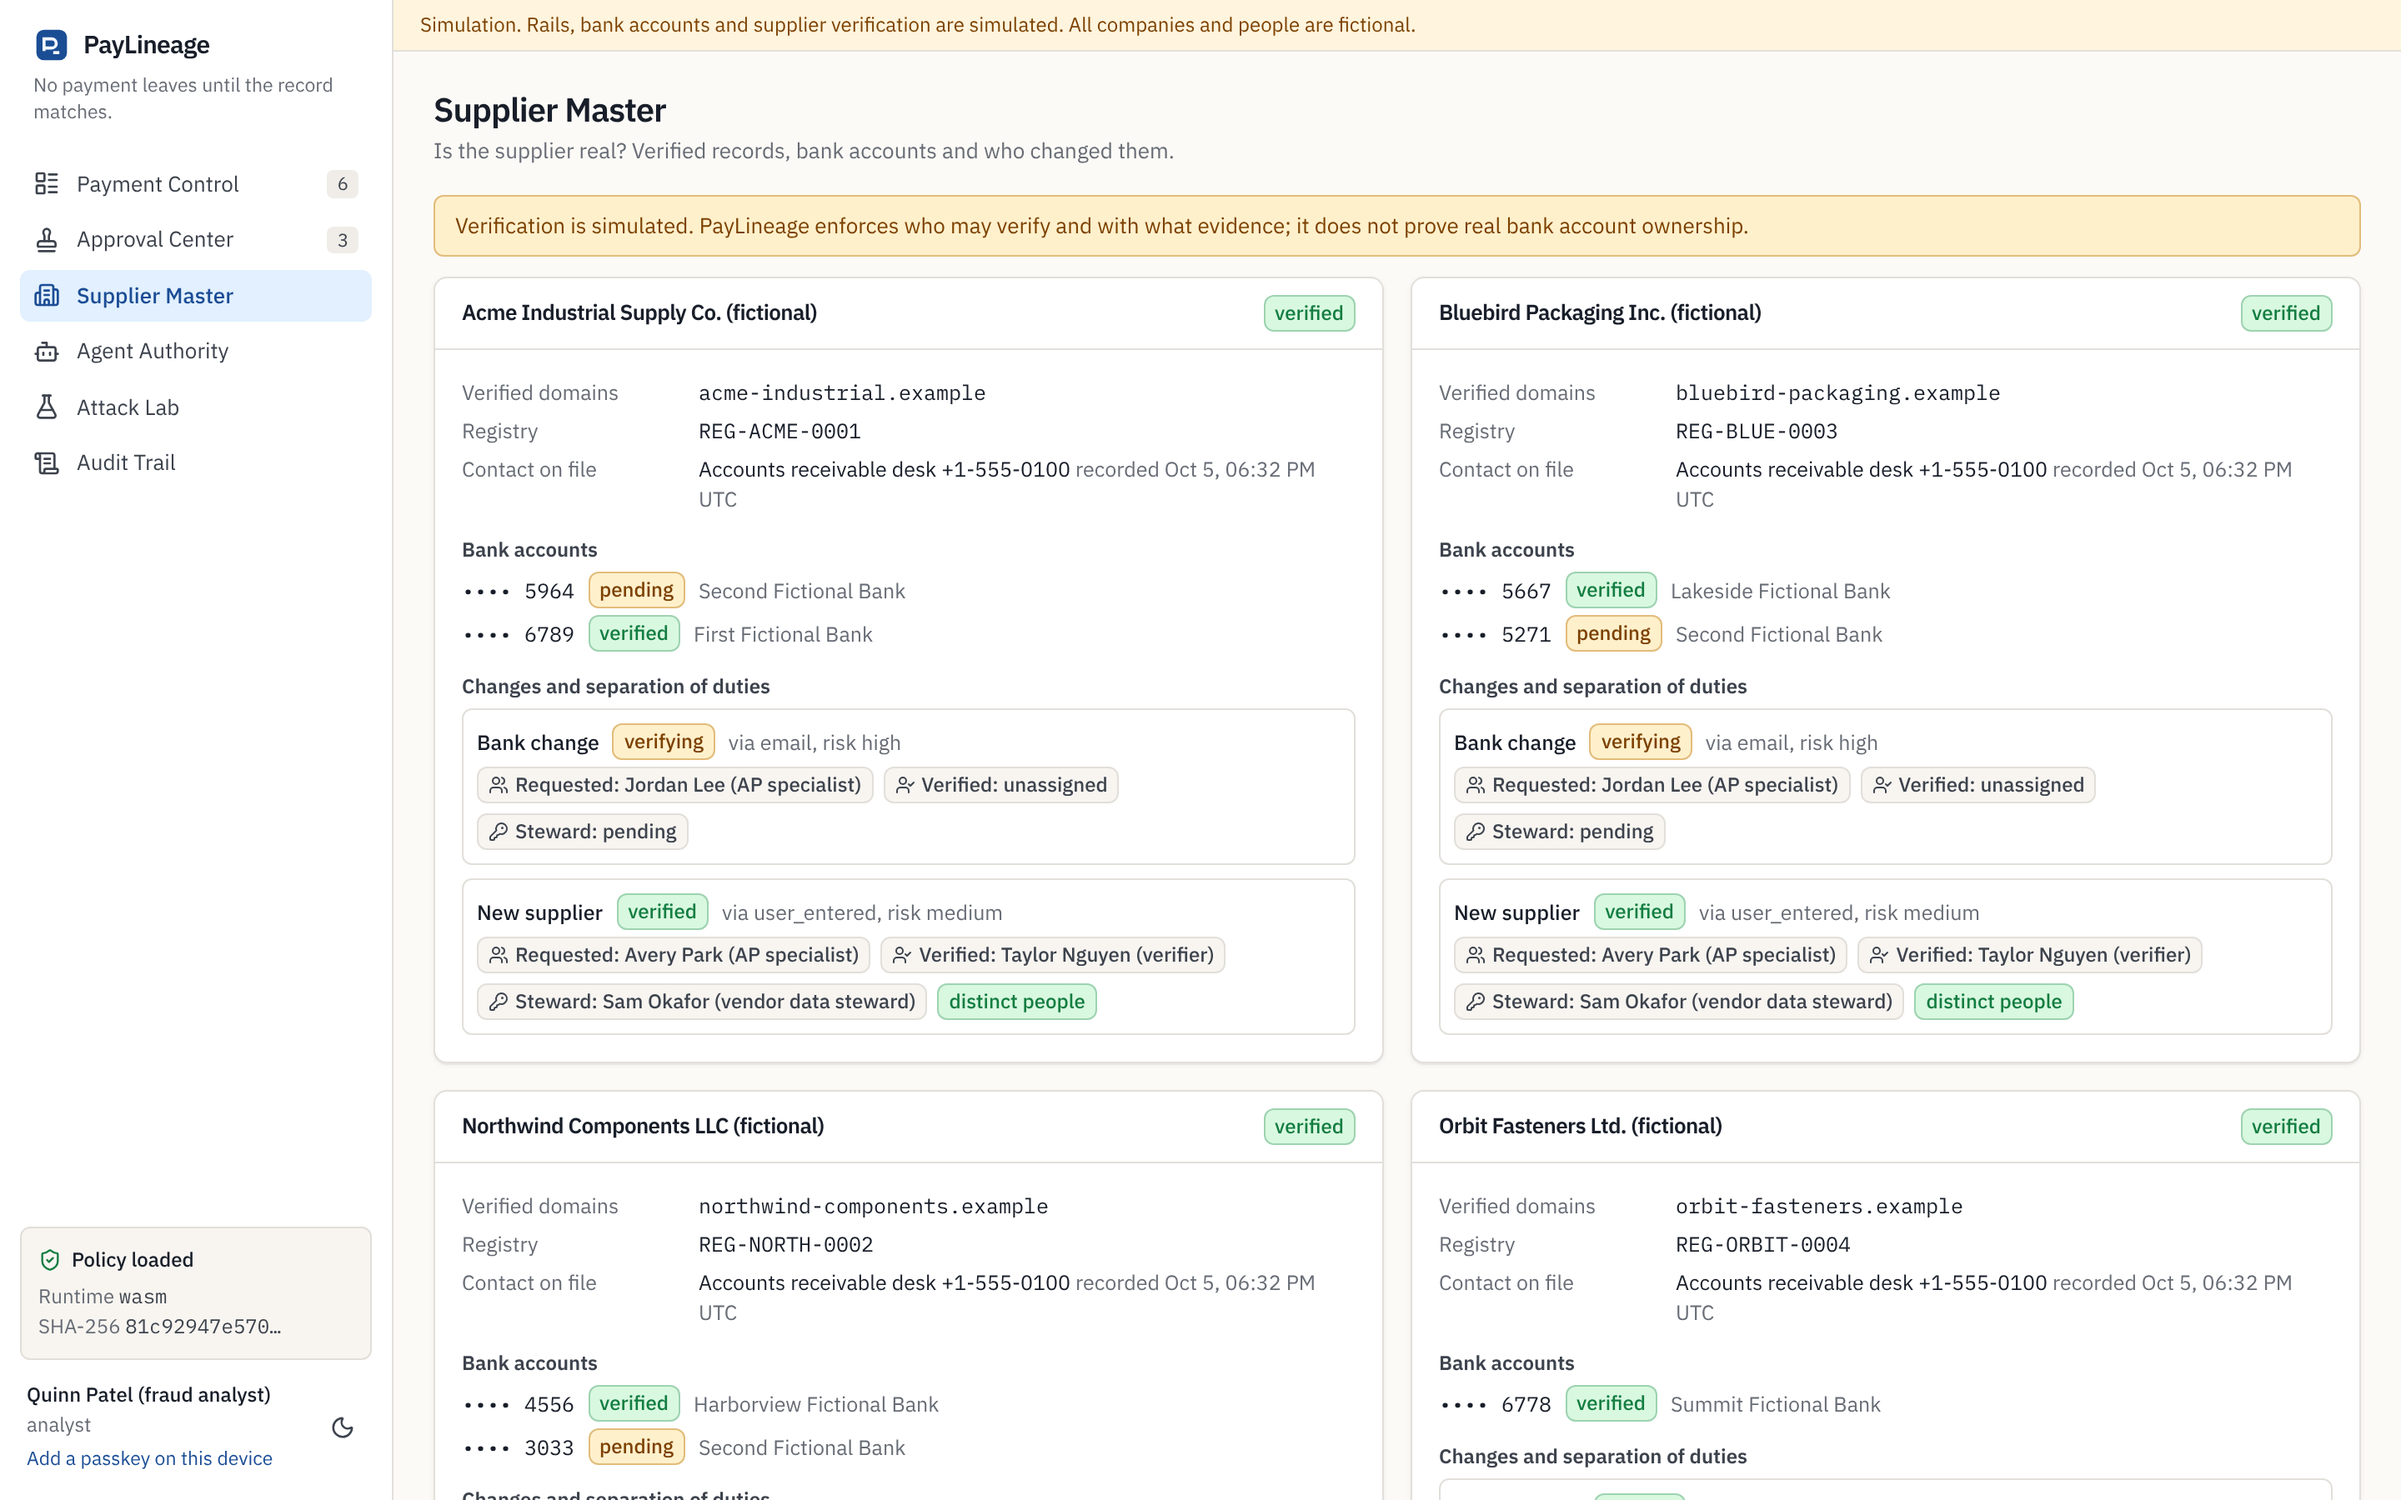
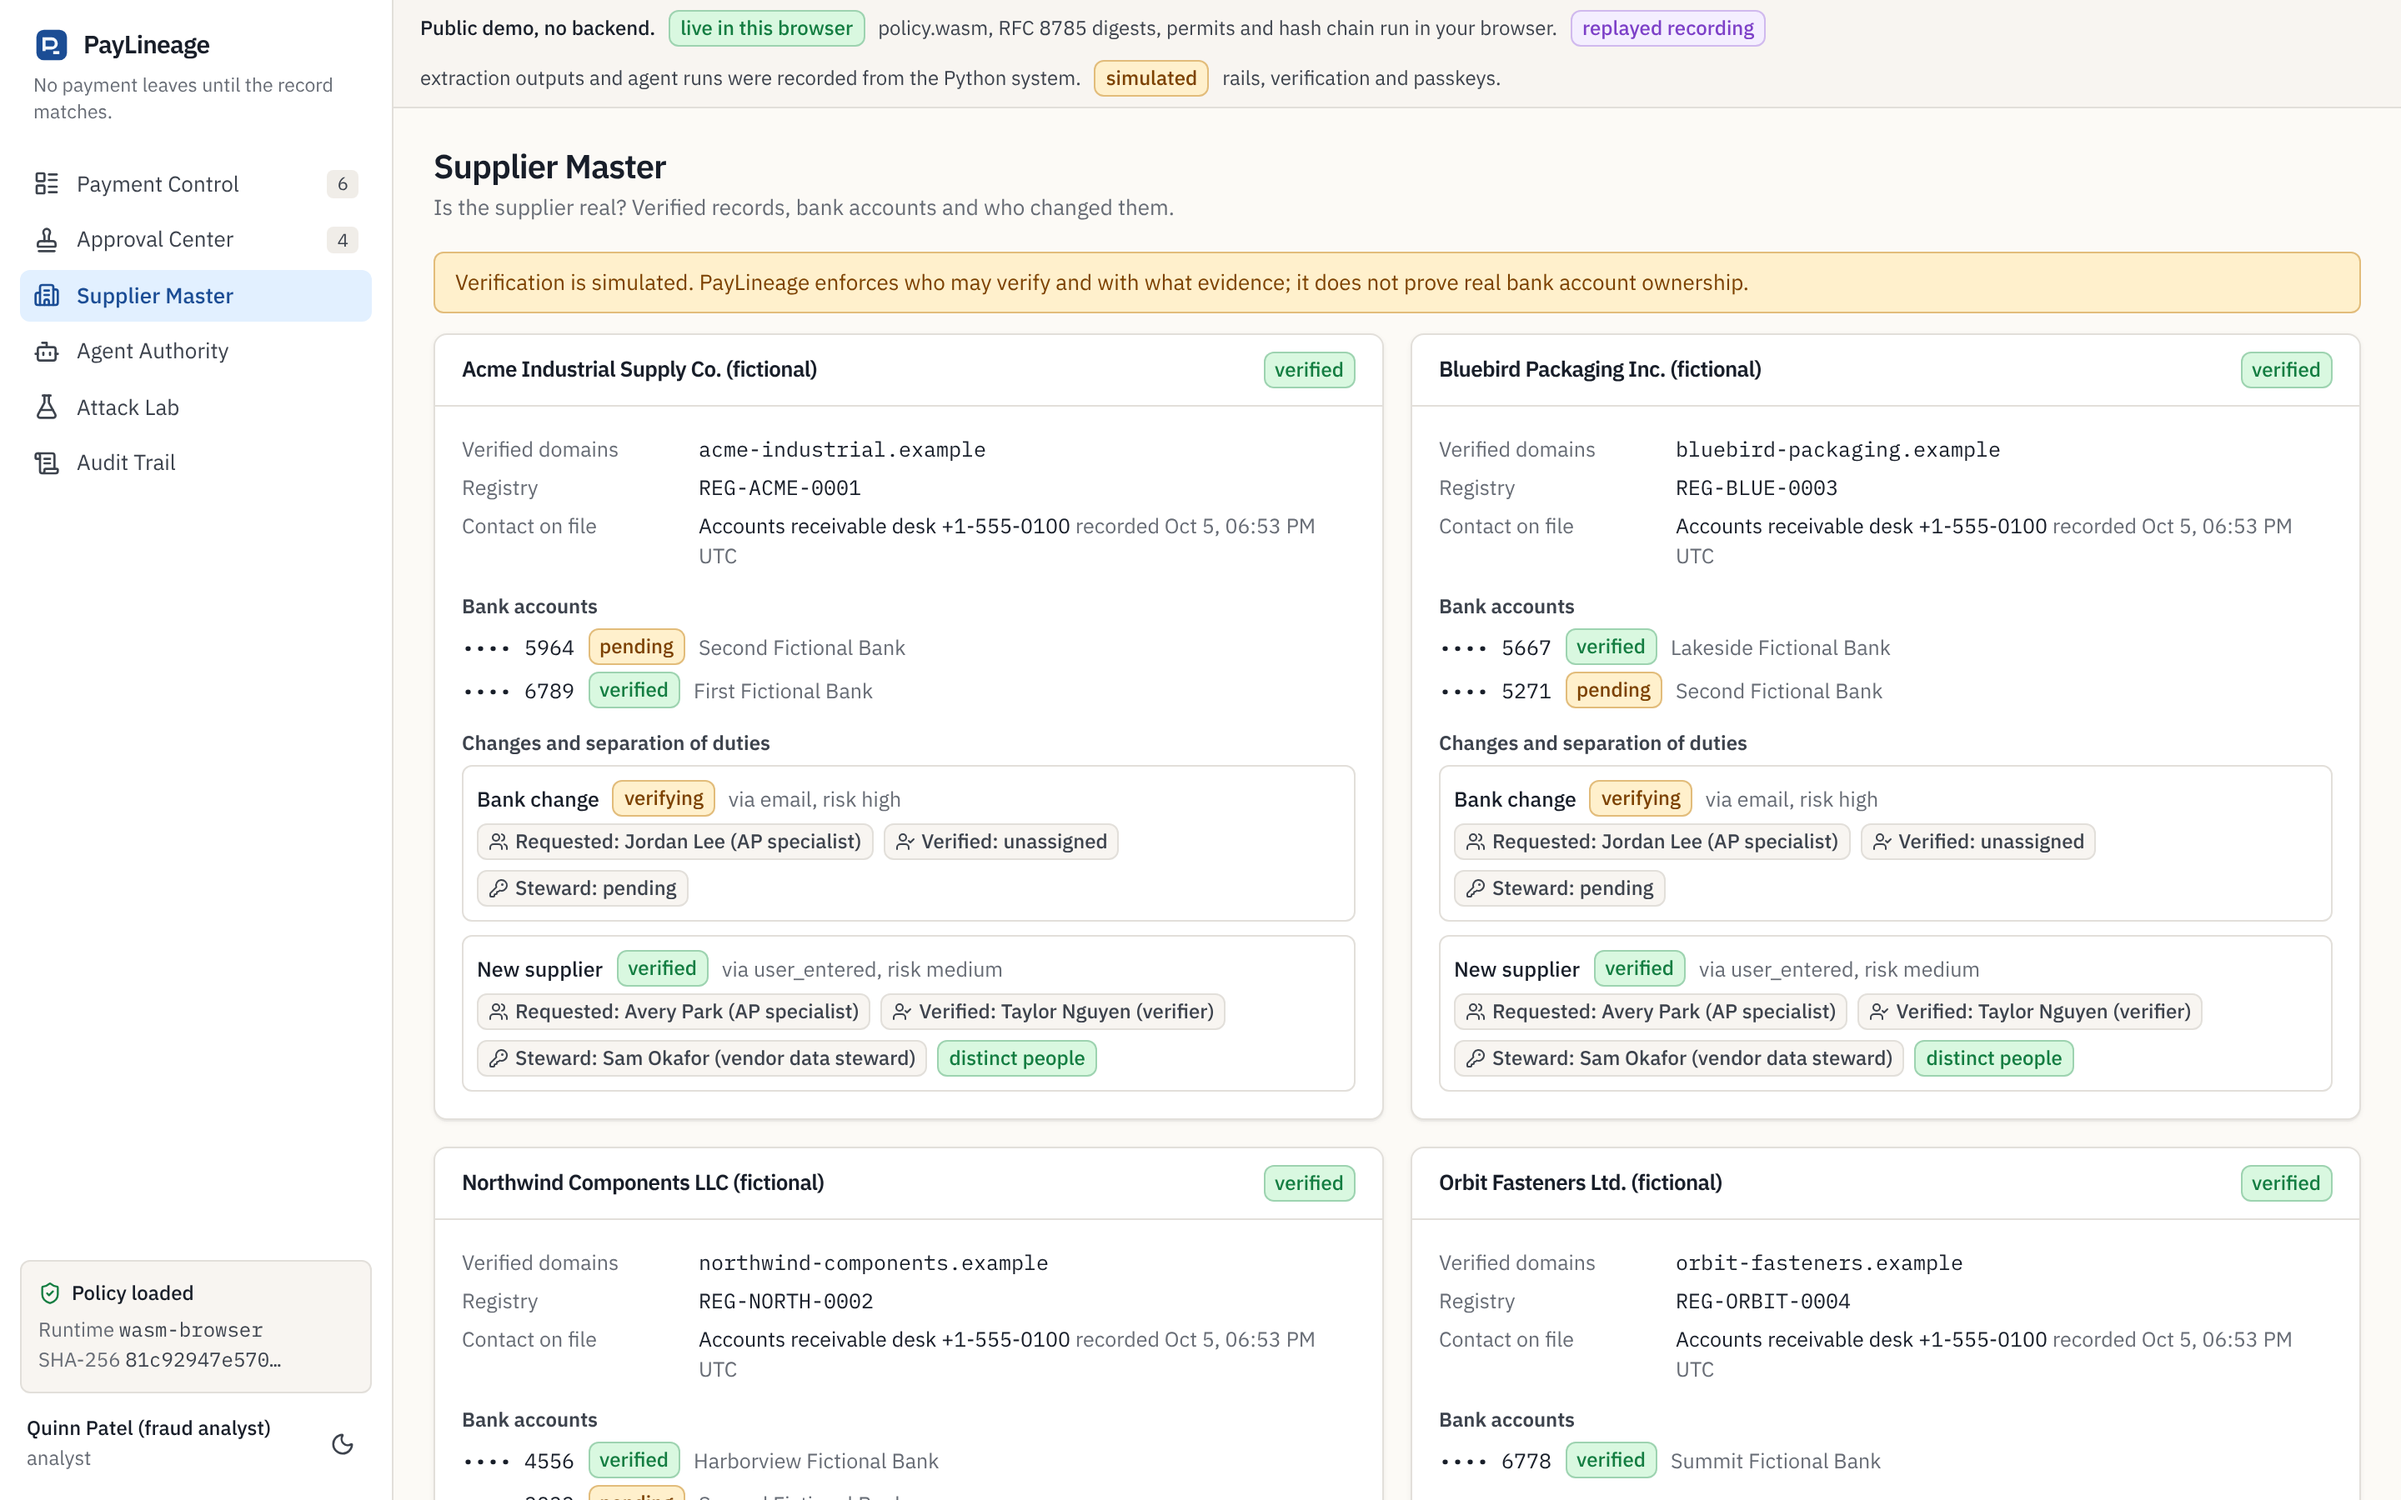
docs: README presentation with live demo, full screens gallery, deployment
- Live demo link, screens for every workspace plus dark mode
- Deployment and disclaimer sections
- make screenshots regenerates docs/images from the static demo

diff --git a/README.md b/README.md
@@ -4,6 +4,8 @@
 
 PayLineage stops AI accounts payable agents from paying unverified or unauthorized beneficiaries. It sits between an agent that reads invoices and the money. Invoice and email content can never become payment authority, even when the model is fully manipulated and a person clicks approve.
 
+**Live demo:** https://sheikhrobinemon-usf.github.io/Paylineage/ (nothing to install, no sign-up). The demo runs the real `policy.wasm`, RFC 8785 digests, permits and the audit hash chain in your browser. Extraction outputs and agent runs are replayed recordings from the Python system, and every recorded decision is re-run in the browser to prove it matches. Run the project locally for the full backend, passkeys and a local model.
+
 > Simulation only. Rails, bank accounts and supplier verification are simulated. Every company, person and account is fictional. PayLineage enforces verification decisions; it does not prove real bank account ownership.
 
 ![Payment Control](docs/images/payment-control.png)
@@ -75,9 +77,19 @@ Six independent checks, each with a clear limit:
 | Attack Lab | Does it hold up? Build an attack and watch the real `policy.wasm` decide in the browser |
 | Audit Trail | Can I prove what happened? Hash chain verification |
 
-| Evidence Investigation | Attack Lab |
+## Screens
+
+| Evidence Investigation | Approval Center |
 | --- | --- |
-| ![Evidence](docs/images/evidence-investigation.png) | ![Attack Lab](docs/images/attack-lab.png) |
+| ![Evidence Investigation: each field linked to its source line, hidden text and a lookalike domain exposed](docs/images/evidence-investigation.png) | ![Approval Center: the exact canonical record and its SHA-256 digest before a passkey approval](docs/images/approval-center.png) |
+| **Attack Lab** | **Supplier Master** |
+| ![Attack Lab: build an attack and watch policy.wasm hold it in the browser](docs/images/attack-lab.png) | ![Supplier Master: verified accounts, pending bank changes and separation of duties](docs/images/supplier-master.png) |
+| **Agent Authority** | **Audit Trail** |
+| ![Agent Authority: RFC 9421 request signing key and the versioned mandate](docs/images/agent-authority.png) | ![Audit Trail: hash chain recomputed and verified in the browser](docs/images/audit-trail.png) |
+| **Dark mode** | |
+| ![Payment Control in dark mode](docs/images/payment-control-dark.png) | |
+
+Screenshots come from the public demo with `make screenshots`, so they always match the current UI.
 
 ## Quick start
 
@@ -112,6 +124,16 @@ docker compose --profile agent up -d ap-agent
 Behind a TLS inspecting proxy, pass its CA to the build with `make stack BUILD_CA_FILE=/path/to/ca.pem`.
 
 The public demo needs nothing installed: it runs the same UI against an in-browser engine (`make demo`, deployed to GitHub Pages from `main`).
+
+## Deployment
+
+Every push to `main` publishes the public demo to GitHub Pages through [`.github/workflows/pages.yml`](.github/workflows/pages.yml):
+
+1. The demo is built as a static export with the committed `policy.wasm`, whose SHA-256 is pinned in the page.
+2. The exact artifact is tested first: Playwright and axe run against it, including the replay of every recorded backend decision in the browser.
+3. The site is published to GitHub Pages (Settings, Pages, Source: GitHub Actions). No server, no API keys.
+
+The full stack runs in Docker with `make stack` (see Quick start). The images run as a non root user, carry no keys, and are built on every pull request.
 
 ## Testing
 
@@ -155,6 +177,10 @@ PayLineage builds on, and does not claim, the ideas in aiAuthZ, Interbolt (prove
 ## Limits
 
 Synthetic scenarios from one simulated organization. Simulated rails and simulated verification. The adversarial stub models a fully manipulated model; it does not measure how a real model reacts. Residual risks are listed in [`docs/SECURITY.md`](docs/SECURITY.md).
+
+## Disclaimer
+
+An independent portfolio project. Simulation only: no real payment rails, bank APIs, credentials, personal data or money. Every company, person, domain and account is fictional, and any resemblance to a real one is a coincidence. Supplier verification is simulated. Not affiliated with or endorsed by any bank, payment network or vendor named in the research notes.
 
 ## License
 
